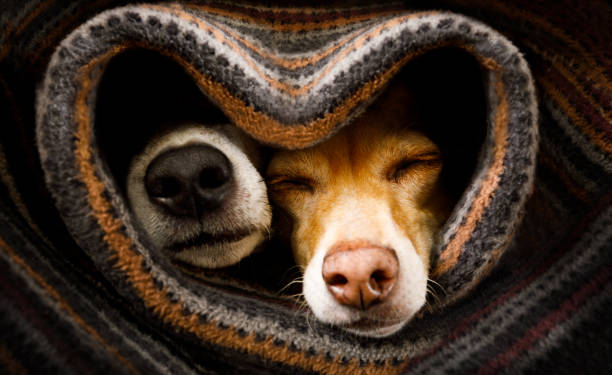
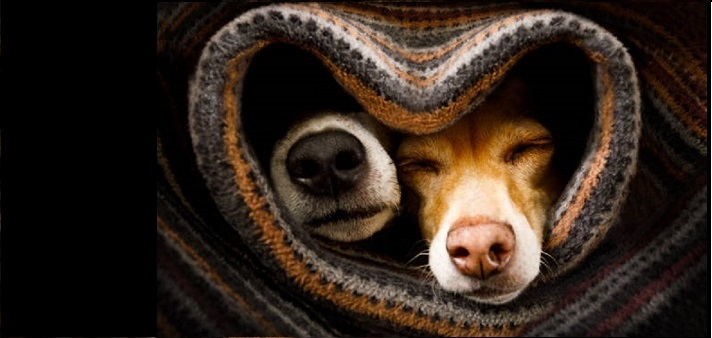
carousel-images

diff --git a/src/Components/DogCarousel.js b/src/Components/DogCarousel.js
@@ -1,7 +1,11 @@
 import Carousel from 'react-bootstrap/Carousel';
 import Button from "react-bootstrap/Button";
 import img1 from '../Images/dog2.jpg';
-import img2 from '../Images/dog3.jpg';
+import img2 from '../Images/dog10.jpg';
+import img3 from '../Images/dog12.jpg';
+import img4 from '../Images/dog7.jpg';
+import img5 from '../Images/dog13.jpg';
+import img6 from '../Images/dog6.jpg';
 
 import { useContext } from "react";
 import { SignupContext } from '../Context/SignupContext';
@@ -25,24 +29,24 @@ export default function DogCarousel(props) {
       <Carousel.Item>
         {props.theme==="light"&&<img
           className="d-block w-100 carousel-img"
-          src={img1}
+          src={img3}
           alt="Second slide"
         />}
         {props.theme==="dark"&&<img
           className="d-block w-100 carousel-img"
-          src={img2}
+          src={img5}
           alt="Second slide"
         />}
       </Carousel.Item>
       <Carousel.Item>
         {props.theme==="light"&&<img
           className="d-block w-100 carousel-img"
-          src={img1}
+          src={img4}
           alt="Third slide"
         />}
         {props.theme==="dark"&&<img
           className="d-block w-100 carousel-img"
-          src={img2}
+          src={img6}
           alt="Third slide"
           />}
           
